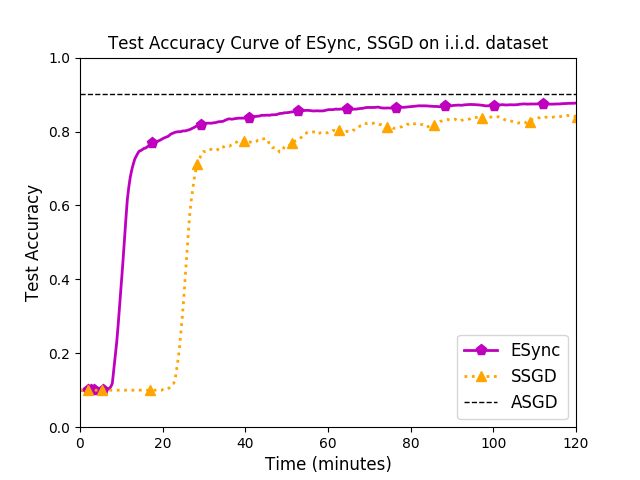
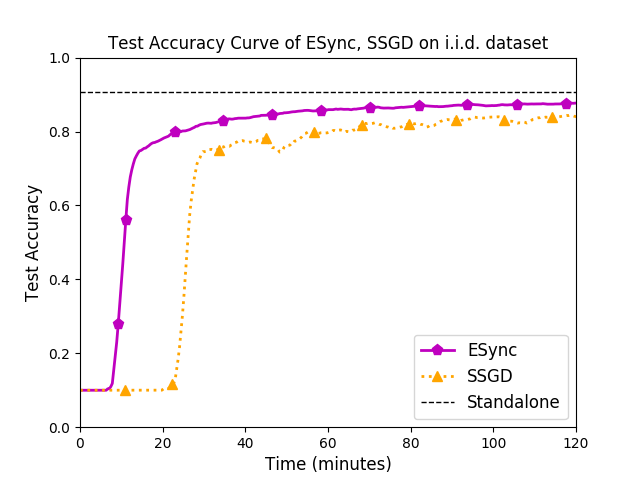
compare heterogeneity

diff --git a/drawer.py b/drawer.py
@@ -64,6 +64,42 @@ def draw_accuracy(summaries, config, vline=0.9,
     plt.legend(["ESync", "SSGD", "ASGD", "DC-ASGD", "Standalone"], fontsize=fontsize)
 
 
+def draw_accuracy_by_round(summaries, config,
+                           fignum=4, roundspan=200, down_sample_interval=10, smooth_interval=10, shift=0):
+    plt.figure(fignum)
+    title = "Test Accuracy Curve of ESync On AlexNet With Different Heterogeneity"
+    plt.title(title, fontsize=fontsize)
+    plt.xlabel("Communication Round", fontsize=fontsize)
+    plt.ylabel("Test Accuracy", fontsize=fontsize)
+    plt.xlim((0, roundspan))
+    plt.ylim((0, 1))
+
+    colors = ("m", "orange", "b", "g")
+    markers = ("p", "^", "s", "o")
+    linewidth = 2
+    linestyle = ("-", ":", "--", "-.")
+    marker_sizes = (8, 7, 6, 7)
+    marker_intervals = (16, 16, 32, 45)
+    marker_prefix = [[4, 6], [5], [7, 10], [13]]
+    marker_starts = (10, 15, 40, 30)
+
+    for idx, summary in enumerate(summaries):
+        node, worker = config[idx]
+        accuracy_list = summary[node][worker]["accuracy_list"]
+        round_list = list(range(1, len(accuracy_list) + 1))
+        smoothed, round_list = down_sampling(accuracy_list, round_list, down_sample_interval, shift)
+        smoothed = [0.1] + smoothed
+        round_list = [0] + round_list
+        smoothed = interval_averaging(smoothed, smooth_interval)
+        plt.plot(round_list, smoothed,
+                 marker=markers[idx], markersize=marker_sizes[idx],
+                 markevery=marker_prefix[idx]+\
+                           list(range(marker_starts[idx], len(round_list), marker_intervals[idx])),
+                 c=colors[idx], linewidth=linewidth, linestyle=linestyle[idx])
+
+    plt.legend(["ESync-300:1", "SSGD"], fontsize=fontsize)
+
+
 def draw_data_throughput(summaries, fignum=1):
     assert len(summaries) == 4
 
@@ -192,26 +228,33 @@ if __name__ == "__main__":
     fontsize = 12
 
     # I.I.D.
-    esync_summary = load_summary(os.path.join(base_dir, "esync"), summary_name_dict["esync"])
-    sync_summary = load_summary(os.path.join(base_dir, "sync"), summary_name_dict["sync"])
-    async_summary = load_summary(os.path.join(base_dir, "async"), summary_name_dict["async"])
-    dcasgd_summary = load_summary(os.path.join(base_dir, "dcasgd"), summary_name_dict["dcasgd"])
-    summaries = [esync_summary, sync_summary, async_summary, dcasgd_summary]
-
-    config = [("cloud3", "gpu0"), ("cloud3", "gpu1"), ("cloud3", "gpu0"), ("cloud3", "gpu1"), True]
-    draw_accuracy(summaries, config, vline=0.926, fignum=0, down_sample_interval=5, smooth_interval=10)
-    draw_data_throughput(summaries, fignum=1)
-    draw_traffic_load(summaries, config, fignum=2)
-    draw_computing_time_ratio(summaries, fignum=3)
+    # esync_summary = load_summary(os.path.join(base_dir, "esync"), summary_name_dict["esync"])
+    # sync_summary = load_summary(os.path.join(base_dir, "sync"), summary_name_dict["sync"])
+    # async_summary = load_summary(os.path.join(base_dir, "async"), summary_name_dict["async"])
+    # dcasgd_summary = load_summary(os.path.join(base_dir, "dcasgd"), summary_name_dict["dcasgd"])
+    # summaries = [esync_summary, sync_summary, async_summary, dcasgd_summary]
+    #
+    # config = [("cloud3", "gpu0"), ("cloud3", "gpu1"), ("cloud3", "gpu0"), ("cloud3", "gpu1"), True]
+    # draw_accuracy(summaries, config, vline=0.926, fignum=0, down_sample_interval=5, smooth_interval=10)
+    # draw_data_throughput(summaries, fignum=1)
+    # draw_traffic_load(summaries, config, fignum=2)
+    # draw_computing_time_ratio(summaries, fignum=3)
 
     # Non I.I.D.
-    esync_niid_summary = load_summary(os.path.join(base_dir, "esync-niid"), summary_name_dict["esync-niid"])
-    sync_niid_summary = load_summary(os.path.join(base_dir, "sync-niid"), summary_name_dict["sync-niid"])
-    async_niid_summary = load_summary(os.path.join(base_dir, "async-niid"), summary_name_dict["async-niid"])
-    dcasgd_niid_summary = load_summary(os.path.join(base_dir, "dcasgd-niid"), summary_name_dict["dcasgd-niid"])
-    summaries = [esync_niid_summary, sync_niid_summary, async_niid_summary, dcasgd_niid_summary]
+    # esync_niid_summary = load_summary(os.path.join(base_dir, "esync-niid"), summary_name_dict["esync-niid"])
+    # sync_niid_summary = load_summary(os.path.join(base_dir, "sync-niid"), summary_name_dict["sync-niid"])
+    # async_niid_summary = load_summary(os.path.join(base_dir, "async-niid"), summary_name_dict["async-niid"])
+    # dcasgd_niid_summary = load_summary(os.path.join(base_dir, "dcasgd-niid"), summary_name_dict["dcasgd-niid"])
+    # summaries = [esync_niid_summary, sync_niid_summary, async_niid_summary, dcasgd_niid_summary]
+    #
+    # config = [("cloud3", "gpu0"), ("cloud3", "gpu0"), ("cloud3", "gpu1"), ("cloud3", "gpu1"), False]
+    # draw_accuracy(summaries, config, vline=0.926, fignum=4, down_sample_interval=10, smooth_interval=30)
 
-    config = [("cloud3", "gpu0"), ("cloud3", "gpu0"), ("cloud3", "gpu1"), ("cloud3", "gpu1"), False]
-    draw_accuracy(summaries, config, vline=0.926, fignum=4, down_sample_interval=10, smooth_interval=30)
+    esync_summary_1 = load_summary(os.path.join(base_dir, "esync"), summary_name_dict["esync"])
+    esync_summary_2 = load_summary(os.path.join(base_dir, "esync2"), summary_name_dict["esync"])
+    sync_summary = load_summary(os.path.join(base_dir, "sync"), summary_name_dict["sync"])
+    summaries = [esync_summary_1, sync_summary]
+    config = [("cloud3", "gpu0"), ("cloud3", "gpu1")]
+    draw_accuracy_by_round(summaries, config, roundspan=200, down_sample_interval=2, smooth_interval=5)
 
     plt.show()

diff --git a/main.py b/main.py
@@ -7,6 +7,9 @@ from mxnet.gluon import loss as gloss
 
 if __name__ == "__main__":
     """COMMAND
+    [State Server]
+    nohup python manage.py runserver 0.0.0.0:10010 > /dev/null &
+
     [Standalone]
     python ~/ESync/main.py -g 0 -m local -n resnet18-v1 -l 0.001 -b 64 -e 1000
 
@@ -21,13 +24,13 @@ if __name__ == "__main__":
 
     DMLC_ROLE=worker DMLC_PS_ROOT_URI=10.1.1.34 DMLC_PS_ROOT_PORT=9091 DMLC_NUM_SERVER=1 DMLC_NUM_WORKER=6 \
         PS_VERBOSE=1 DMLC_INTERFACE=eno2 \
-        nohup python ~/ESync/main.py -g 0 -m esync -dcasgd 0 -n resnet50-v2 -s 0 -b 64 -ll 0.0005 > worker_gpu_0.log &
+        nohup python ~/ESync/main.py -g 0 -m esync -dcasgd 0 -n alexnet -s 0 -b 64 -ll 0.0005 -f 10 > worker_gpu_0.log &
     DMLC_ROLE=worker DMLC_PS_ROOT_URI=10.1.1.34 DMLC_PS_ROOT_PORT=9091 DMLC_NUM_SERVER=1 DMLC_NUM_WORKER=6 \
         PS_VERBOSE=1 DMLC_INTERFACE=eno2 \
-        nohup python ~/ESync/main.py -g 1 -m esync -dcasgd 0 -n resnet50-v2 -s 0 -b 64 -ll 0.0005 > worker_gpu_1.log &
+        nohup python ~/ESync/main.py -g 1 -m esync -dcasgd 0 -n alexnet -s 0 -b 64 -ll 0.0005 -f 10 > worker_gpu_1.log &
     DMLC_ROLE=worker DMLC_PS_ROOT_URI=10.1.1.34 DMLC_PS_ROOT_PORT=9091 DMLC_NUM_SERVER=1 DMLC_NUM_WORKER=6 \
         PS_VERBOSE=1 DMLC_INTERFACE=eno2 \
-        nohup python ~/ESync/main.py -c 1 -m esync -dcasgd 0 -n resnet50-v2 -s 0 -b 64 -ll 0.0005 > worker_cpu.log &
+        nohup python ~/ESync/main.py -c 1 -m esync -dcasgd 0 -n alexnet -s 0 -b 64 -ll 0.0005 -f 1 > worker_cpu.log &
     """
 
     parser = argparse.ArgumentParser()
@@ -46,6 +49,7 @@ if __name__ == "__main__":
     parser.add_argument("-s", "--split-by-class", type=int, default=SPLIT_BY_CLASS)
     parser.add_argument("-ip", "--state-server-ip", type=str, default=STATE_SERVER_IP)
     parser.add_argument("-port", "--state-server-port", type=str, default=STATE_SERVER_PORT)
+    parser.add_argument("-f", "--factor", type=int, default=FACTOR)
     args, unknown = parser.parse_known_args()
 
     lr = args.learning_rate
@@ -64,6 +68,8 @@ if __name__ == "__main__":
     state_server_ip = args.state_server_ip
     state_server_port = args.state_server_port
     common_url = "http://{ip}:{port}/%s/".format(ip=state_server_ip, port=state_server_port)
+    factor = args.factor
+    assert factor >= 1
 
     net = None
     if network == "resnet18-v1":
@@ -112,7 +118,8 @@ if __name__ == "__main__":
         kwargs.update({
             "local_lr": local_lr,
             "global_lr": global_lr,
-            "common_url": common_url
+            "common_url": common_url,
+            "factor": factor
         })
         trainer(kwargs)
     elif mode == "sync":

diff --git a/trainer/esync_trainer.py b/trainer/esync_trainer.py
@@ -18,6 +18,7 @@ def trainer(kwargs):
     net = kwargs["net"]
     loss = kwargs["loss"]
     split_by_class = kwargs["split_by_class"]
+    factor = kwargs["factor"]
 
     nd.waitall()
     ts = time.time()
@@ -94,6 +95,7 @@ def trainer(kwargs):
                 measure.stop("get_batch")
 
                 measure.start("forward and backward")
+                calc_start_time = time.time()
                 ls = []
                 with autograd.record():
                     y_hats = [net(X) for X in Xs]
@@ -101,6 +103,8 @@ def trainer(kwargs):
                 for l in ls:
                     l.backward()
                 nd.waitall()
+                calc_time = time.time() - calc_start_time
+                time.sleep((factor - 1) * calc_time)
                 measure.stop("forward and backward")
                 measure.add_samples(batch_size)
 
@@ -155,6 +159,9 @@ def trainer(kwargs):
                 self_iters = 0
                 global_iters += 1
                 te = time.time()
+
+                if global_iters == 200:
+                    return 0
 
                 measure.start("reset state server")
                 requests.post(common_url % "reset", data={"r": rank, "t": global_iters, "te": te})

diff --git a/config.py b/config.py
@@ -5,6 +5,7 @@ MODE = "esync"
 USE_DCASGD = 0
 SPLIT_BY_CLASS = 0
 DATA_DIR = "/home/lizh/ESync/data"
+FACTOR = 1
 
 # for evaluation
 EVAL_DURATION = 1
